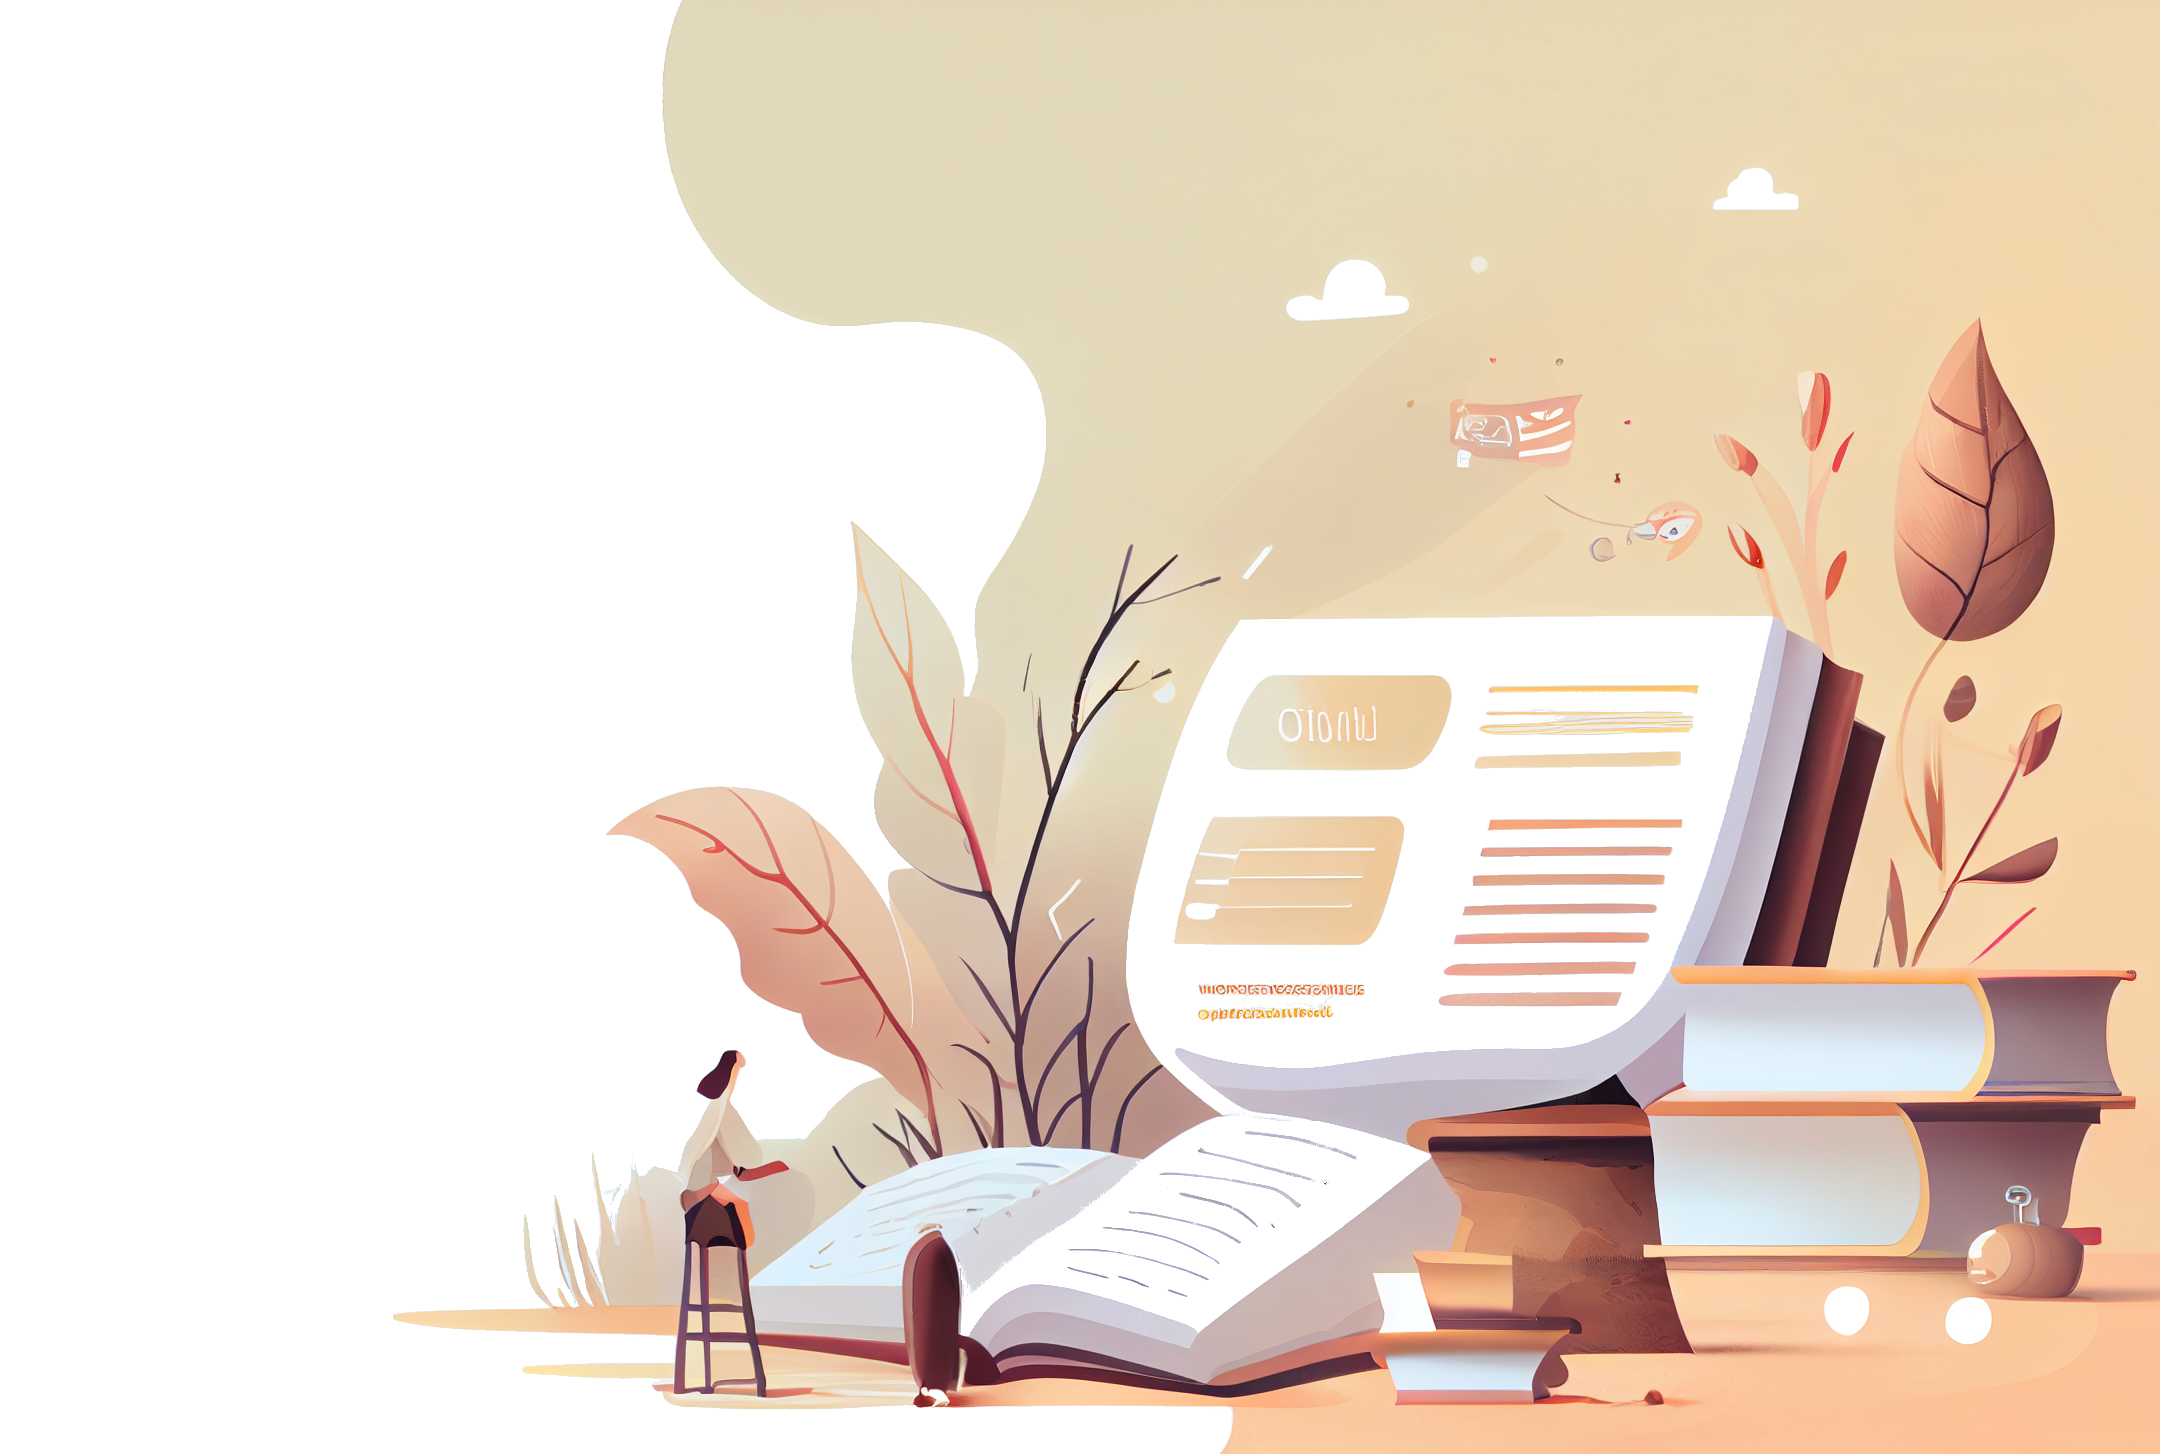
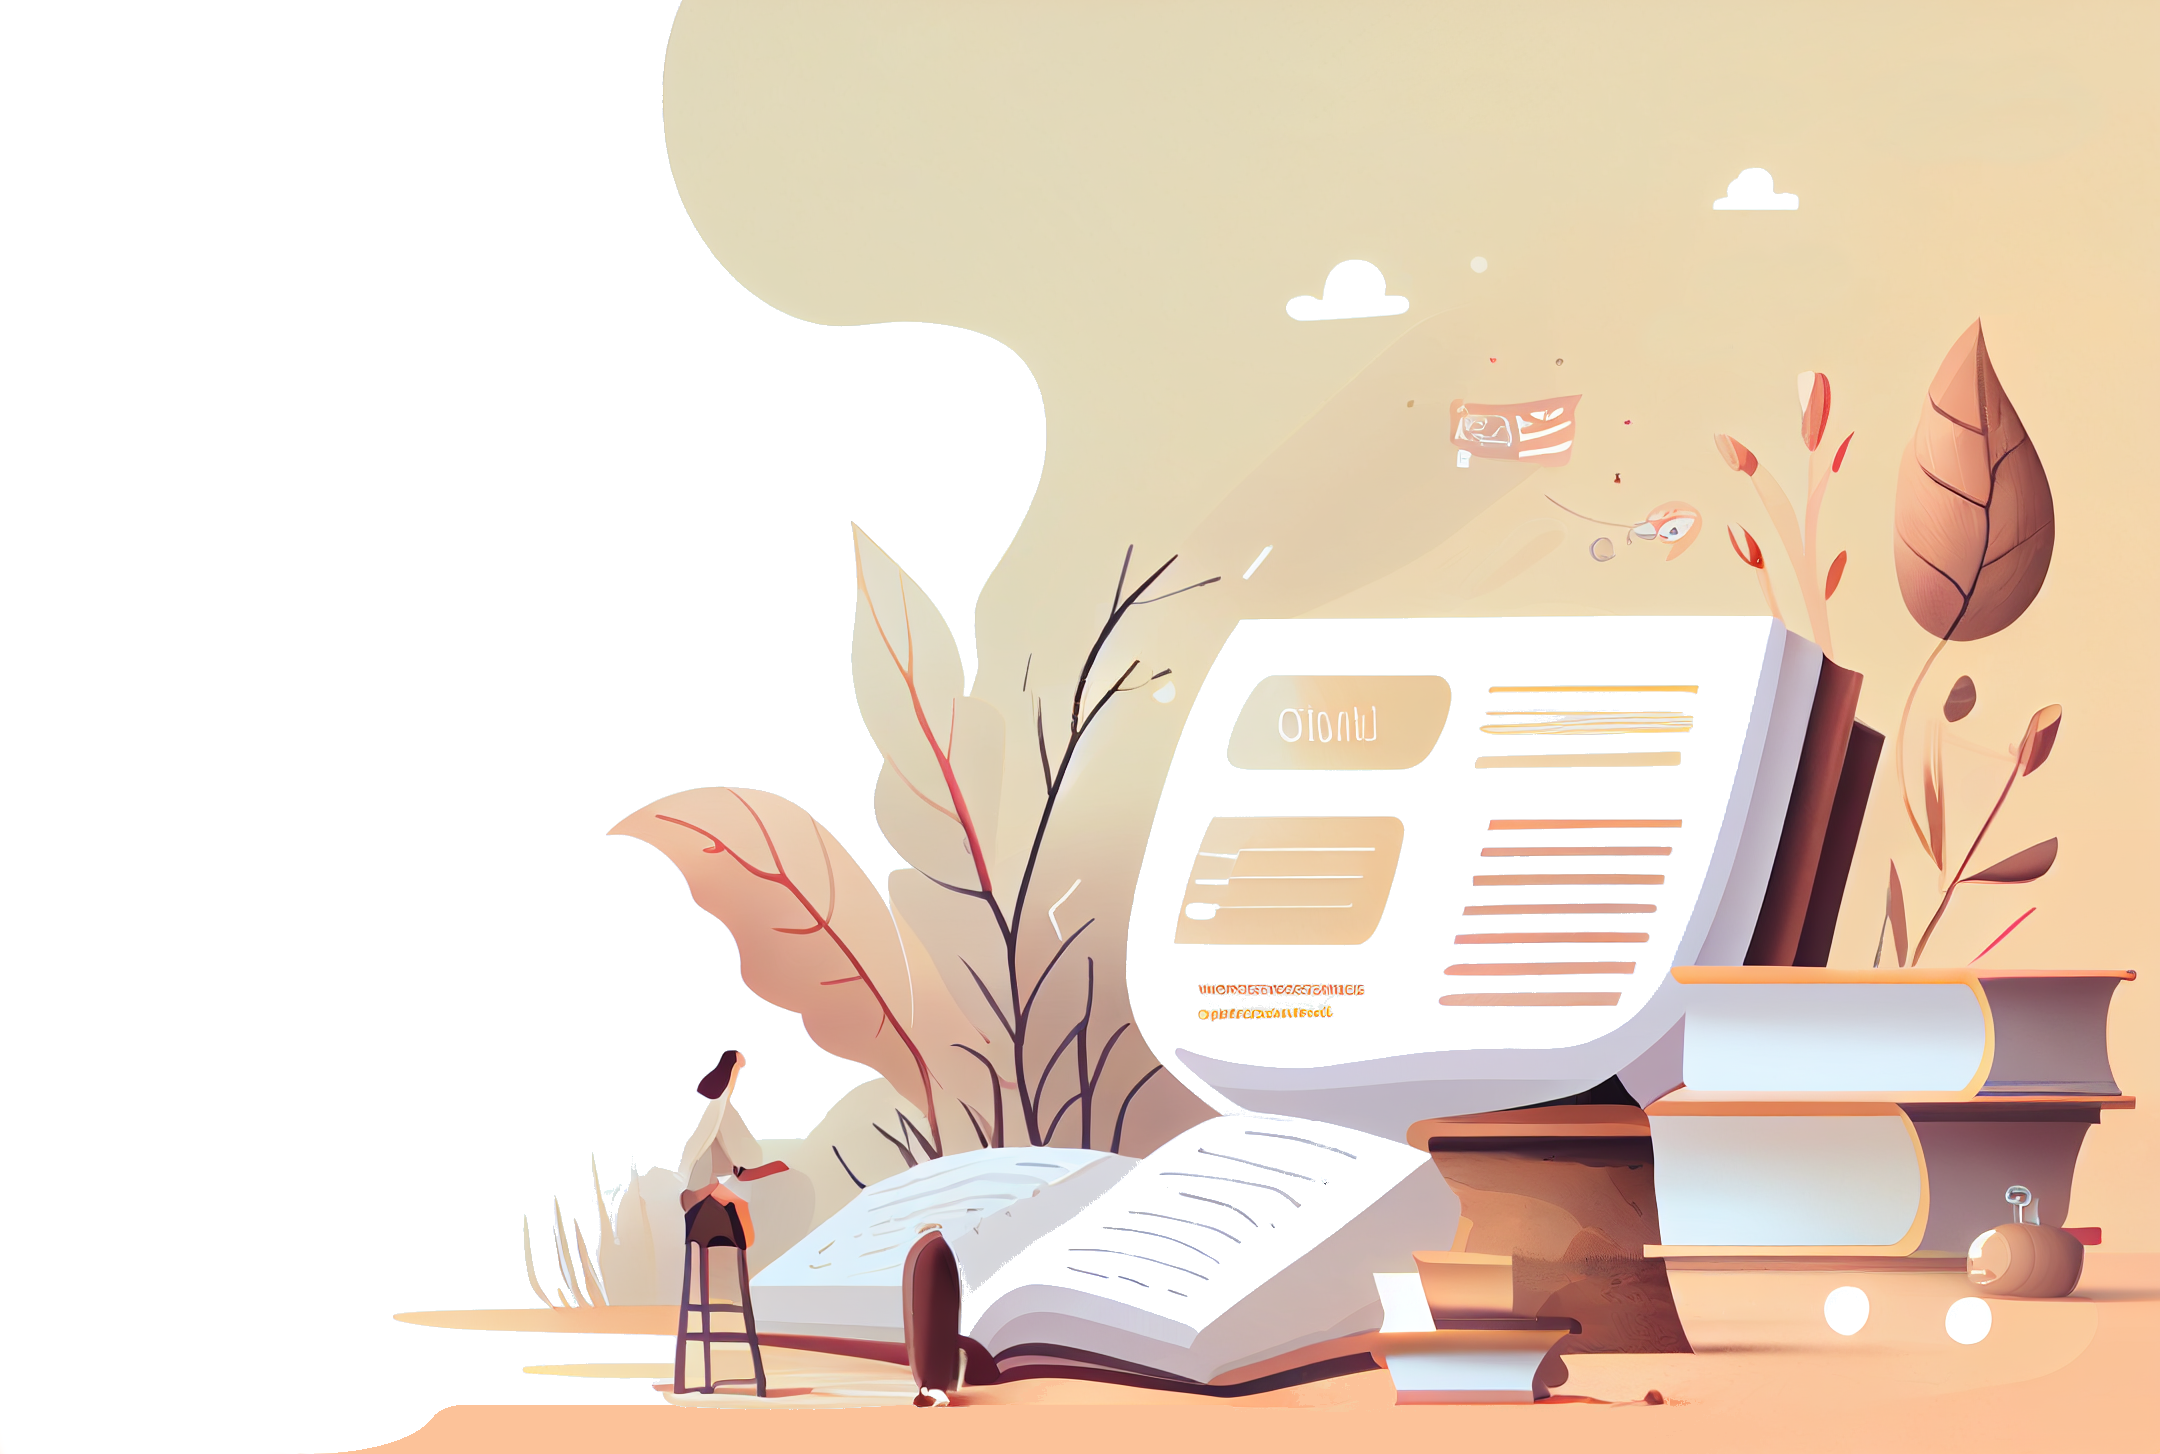
Working waves

Changed region(s): [[0.1551, 0.9594, 0.5894, 1.0]]

diff --git a/flutter_service_worker.js b/flutter_service_worker.js
@@ -4,17 +4,17 @@ const TEMP = 'flutter-temp-cache';
 const CACHE_NAME = 'flutter-app-cache';
 const RESOURCES = {
   "flutter.js": "a85fcf6324d3c4d3ae3be1ae4931e9c5",
-"index.html": "d6b47c890144e2952e9679b5a07d5f22",
-"/": "d6b47c890144e2952e9679b5a07d5f22",
+"index.html": "c7c737c56015b57ff85b7b3a3aa4140f",
+"/": "c7c737c56015b57ff85b7b3a3aa4140f",
 "icons/Icon-maskable-512.png": "301a7604d45b3e739efc881eb04896ea",
 "icons/Icon-192.png": "ac9a721a12bbc803b44f645561ecb1e1",
 "icons/Icon-maskable-192.png": "c457ef57daa1d16f64b27b786ec2ea3c",
 "icons/Icon-512.png": "96e752610906ba2a93c65f8abe1645f1",
 "app.html": "2b456f24f578dfd2fcb552a9b7c01408",
 "favicon.png": "5dcef449791fa27946b3d35ad8803796",
-"index.css": "e25d11619004ebd072ddb9e5a1f85bc2",
+"index.css": "d88c8ed83d70a8e0a948087a885b881a",
 ".git/HEAD": "4cf2d64e44205fe628ddd534e1151b58",
-".git/COMMIT_EDITMSG": "ba89174eac5268cbe65dd0e7a0260c37",
+".git/COMMIT_EDITMSG": "3ef00351a14d85419d800537c21de555",
 ".git/hooks/pre-rebase.sample": "56e45f2bcbc8226d2b4200f7c46371bf",
 ".git/hooks/pre-commit.sample": "e4db8c12ee125a8a085907b757359ef0",
 ".git/hooks/pre-push.sample": "3c5989301dd4b949dfa1f43738a22819",
@@ -32,6 +32,7 @@ const RESOURCES = {
 ".git/objects/9b/27534445ef303bd6f2058b5e627c52e3456e30": "07d38b293dcec26b6d87aa57010a91a8",
 ".git/objects/24/dc7fa4d3e61a950d014b160cf62b18ef7013f6": "141ab433709e4f1902d441653e13352e",
 ".git/objects/4b/ce11f832f26ee264d95b6790237601cf5a6088": "d9243641979aa81a886b057ab392745a",
+".git/objects/7e/766160e94b6872ce6c80ce02f66254b746597c": "ee9ded14e669ed52adcbd554b41c1135",
 ".git/objects/eb/9b4d76e525556d5d89141648c724331630325d": "37c0954235cbe27c4d93e74fe9a578ef",
 ".git/objects/a1/fe901dca7c4be1d42414e58f8e7013f850b667": "ba435c5c7a85acfdd37b7db5645563d1",
 ".git/objects/a1/3837a12450aceaa5c8e807c32e781831d67a8f": "bfe4910ea01eb3d69e9520c3b42a0adf",
@@ -70,9 +71,11 @@ const RESOURCES = {
 ".git/objects/b9/2a0d854da9a8f73216c4a0ef07a0f0a44e4373": "f62d1eb7f51165e2a6d2ef1921f976f3",
 ".git/objects/b9/ed4d869e1d00a0b45817b4bd08040c55d10753": "dc76abc1874280983d1cbc37a8d14a60",
 ".git/objects/b9/ac9ddb0e7f1d542c533f4390a0a279352e7007": "62e0f88b2ac80c94426ff6bbb0d3e4a2",
+".git/objects/bc/c3f447bd1a25a3f1f82e4cb1510492dd160947": "98aebcfa5ee57fa1acbf392ddfef162c",
 ".git/objects/bc/26d4264e56fefb950a0a0ea19b02c23b6a19f4": "e5945cf32afabd51bc2fde38d3285530",
 ".git/objects/9d/5bfb277d518f56e19ff3e668aca380aed3ff3b": "dde70059e8ac7c107c578c8a61ae608c",
 ".git/objects/84/168a89f04de21dc4adbadd14db47390a6079e4": "24572caf3bd258f8eefff74dd56325ed",
+".git/objects/84/cb43564ddf28c769140667f8b5aa53b5def971": "79a7a24d05d35e7103dd0ff107409aa6",
 ".git/objects/f9/46fcec9873c1623870fe7f031455ce55429e8e": "846582589245e8b0d390d2fc45dfbf42",
 ".git/objects/1a/8fd3da589c4836a84f0b7019a24196604147b1": "58f47983bc295f7bed8d784fa77bd62b",
 ".git/objects/b0/53fcf4e286130d3b2489812b7104ad4b8bf6bb": "d8f1084caee221f55f8e4ab5256ab3a9",
@@ -80,6 +83,7 @@ const RESOURCES = {
 ".git/objects/aa/f9775aa89c03137dbf48721cdc05191703de5e": "25802b31f0bee36b4e1a7a67835f99f0",
 ".git/objects/a6/8b6d3e823fee9e400dd28ce2a0f4838267a87a": "328107b3bd7aa0ab318a89cd43389f68",
 ".git/objects/73/a5ca9e6ea457a8e87e3e88047b9268f15bb75b": "437e873491b95548ba60fecc00fa7933",
+".git/objects/bd/5b4756d4474df1d5b0b808fefd557e997cf99c": "99557527436c1e7792da9531416acdb1",
 ".git/objects/85/26cd6873cae032f78a03de3af355ae44d25952": "46469e1809608412898a85e055e0c0f5",
 ".git/objects/ce/2f5dcd12bc7112800799eb6a06cfdf05ff964f": "9b736263b865c469831c13f83ee43eeb",
 ".git/objects/a8/6546bcc0c8f4cc2af07c9e1f91018690f4364e": "e558695cd9ba4785a46da2f4ca80f8dc",
@@ -89,6 +93,7 @@ const RESOURCES = {
 ".git/objects/58/ede68754a31f9d9646c638bd53b2bfc3b70646": "f241ae7f4a3fe74044c281943f5da493",
 ".git/objects/3b/e19a9d751cd58458ce46fe8b5923e7977d6828": "2ece4044308f094eae31013342ebd745",
 ".git/objects/d6/9c56691fbdb0b7efa65097c7cc1edac12a6d3e": "868ce37a3a78b0606713733248a2f579",
+".git/objects/d6/d1cc981a4a87e73a1408abd8b269979055e81a": "f3730830ead4adc9b5224916344d90d5",
 ".git/objects/d6/2f13cd6e404919a0ec4abd86c27f64e7b01fbe": "c888336c03f2d90b9ed960955afde6c5",
 ".git/objects/d6/2a86a425ddd8e4754d24169d307de8dec744b4": "dbfbf54d9a16208e4ccc79fe6ea6cb50",
 ".git/objects/41/5c059c8094b888b0159fdedfd4e3cb08a8028e": "86914685ccd40e82a7fe5b70459fb9f7",
@@ -101,6 +106,7 @@ const RESOURCES = {
 ".git/objects/30/083cee3d9f417e46ada60286f79b38a157d196": "ad3d7c5405eea9f4e79989b763458ffa",
 ".git/objects/28/198e1c3ed39ab5fd7a89d4ab8d13b0e6d584df": "94f0be693b4f0ed3cd15e9b3d12a0e71",
 ".git/objects/28/4d8dcb3b6d9f6359366a98bf6f24f91c10a4c6": "c8aa524445d76d9e51a95ffa0461312c",
+".git/objects/ee/77e9a45f7fe8f0ed54cfa0257c4e33fb3ed2ae": "fd16b1dee1418da4138b826fc85bb90e",
 ".git/objects/35/d8b8ee5613841a642a6dbabad811218564da3d": "d4ff6e6eb2440f8cb6c0328a05de07b8",
 ".git/objects/98/b95a7b55d2e42dd0dd2bdc5b494d5e7de8a196": "0064632b1889964aa3ac1a25af32c144",
 ".git/objects/e6/1e42ddbc2f7e92c6f7f9b1c2c69a7a015a16fa": "2c2171be73e2be026e9178136fbbd749",
@@ -119,6 +125,7 @@ const RESOURCES = {
 ".git/objects/66/853f0d81862481a20dcad298a226122edf02d4": "84fe0c96dd09b34cf37461b375943208",
 ".git/objects/66/21df32815c62ab96ca0b96931fc2202c2e6912": "e5167549c7c2b09ea066e88176f11b30",
 ".git/objects/1b/d810815ed1a9e74351cdac4411bc19e005d10f": "b489a644f17594eec551a43bdf41429b",
+".git/objects/1b/476437875067542194d9fe18a5e42162e61b0f": "dc7347ec68230abbb87b6135e3678a35",
 ".git/objects/e5/951dfb943474a56e611d9923405cd06c2dd28d": "c6fa51103d8db5478e1a43a661f6c68d",
 ".git/objects/8c/99266130a89547b4344f47e08aacad473b14e0": "41375232ceba14f47b99f9d83708cb79",
 ".git/objects/7f/8ea42b6250b351da4b68a41fdc0ed66abc3766": "7549c546dfcc391fa1a0d7db459c154e",
@@ -126,16 +133,17 @@ const RESOURCES = {
 ".git/objects/6a/562868741911ffc3a5345f3c094a71eb0d073d": "ad3237b80e6dc65be0e2000c6c0a445f",
 ".git/objects/55/919b0b32f21410d9755ffbe64aeb2d07650744": "ffb88073b04c5f9454f1e7f08edc733c",
 ".git/objects/55/b37da53880a3a3924afe1c852b31221058d1f0": "4230b5c18f6af30479a92139cb3c4181",
+".git/objects/a3/bdce738f6228ec24221ea64c7123510208f18f": "65cda3de42a6de5ecb60a3b185e06d6d",
 ".git/objects/2c/0ebfe052cc86f315afc2944f5584786ee8bc5c": "bf07a24a1725fe2afc553d4b27e8e218",
 ".git/objects/fb/5092afb7ddb4343465ed66a271c780e6fdb065": "3bc8c1b273c6c9ce0991d00c25e41a0d",
-".git/refs/heads/master": "7c54aaf3022b722459dea5abe738678f",
-".git/refs/remotes/origin/master": "7c54aaf3022b722459dea5abe738678f",
+".git/refs/heads/master": "0b2357c997e8e0141efb274ac4a7229f",
+".git/refs/remotes/origin/master": "0b2357c997e8e0141efb274ac4a7229f",
 ".git/info/exclude": "036208b4a1ab4a235d75c181e685e5a3",
 ".git/description": "a0a7c3fff21f2aea3cfa1d0316dd816c",
-".git/logs/HEAD": "cb3089b51a55fbe0304c484f7f8fac5c",
-".git/logs/refs/heads/master": "cb3089b51a55fbe0304c484f7f8fac5c",
-".git/logs/refs/remotes/origin/master": "ec1d3ec2dd47bc096ca7e5c472c4dd2c",
-".git/index": "f1b6724387da069da324c4d1600bf2dc",
+".git/logs/HEAD": "1a1b35d092fe7637b86591300492d092",
+".git/logs/refs/heads/master": "1a1b35d092fe7637b86591300492d092",
+".git/logs/refs/remotes/origin/master": "efa2c3f20a1d0be21f3def8e1593b60a",
+".git/index": "5011c4e48c588f05bf07838fbf83a739",
 "version.json": "c5ec7f96bcae2727091d84e3e9d5ee84",
 "canvaskit/profiling/canvaskit.js": "c21852696bc1cc82e8894d851c01921a",
 "canvaskit/profiling/canvaskit.wasm": "371bc4e204443b0d5e774d64a046eb99",
@@ -147,11 +155,11 @@ const RESOURCES = {
 "assets/background_portrait.webp": "74fd6b88d1fca761e0e1cc7cbaba1b9f",
 "assets/background_portrait.png": "909153ce13286633a3d070f8cd256342",
 "assets/FontManifest.json": "dc3d03800ccca4601324923c0b1d6d57",
-"assets/background.webp": "16931655723775203b28757524070cc0",
+"assets/background.webp": "212d2694b7d24a10036803465b2d42d9",
 "assets/portrait_template.png": "3fc4a7f3955082b41813aad4dd89387b",
 "assets/template.png": "6c8271dd55e629bb0c0c3910912f8985",
 "assets/packages/cupertino_icons/assets/CupertinoIcons.ttf": "6d342eb68f170c97609e9da345464e5e",
-"assets/background.png": "78bec78130cd9d9d83e3b9db8b7b4e42",
+"assets/background.png": "a9159dbf9781c71d817afeada7a17c8a",
 "assets/AssetManifest.json": "2efbb41d7877d10aac9d091f58ccd7b9",
 "main.dart.js": "d434993cc2db3303afdacbf68e17cf74",
 "manifest.json": "d89c47cbdaea48190eaa31c233523559"

diff --git a/index.css b/index.css
@@ -1,10 +1,11 @@
 body {
     margin: 0;
+    background-color: #f5f5f5;
+    overflow-x: hidden;
   }
 
 @media (orientation: portrait) {
     .cover {
-        background-color: #f5f5f5;
         background-image: url('./assets/background_portrait.webp');
         background-size: auto 80%;
         background-repeat: no-repeat;
@@ -12,17 +13,26 @@ body {
         height: 100vh;
         width: 100vw;
     }
+
+    .cute-button {
+        width: 50%;
+        margin-left: 20%;
+    }
 }
 
 @media (orientation: landscape) {
     .cover {
-        background-color: #f5f5f5;
         background-image: url('./assets/background.webp');
         background-size: auto 100%;
         background-repeat: no-repeat;
         background-position: right bottom;
         height: 100vh;
         width: 100vw;
+    }
+
+    .cute-button {
+        width: 30%;
+        margin-left: 30%;
     }
 }
 
@@ -62,19 +72,19 @@ body {
   
 .title {
     margin-left: 10%;
-    font-size: 3em;
+    font-size: 3rem;
     color: #492c38;
 }
 
 .subtitle {
     font-size: 16px;
-    font-size: 1.8em;
+    font-size: 1.8rem;
     font-weight: normal;
     margin-left: 10%;
   }
   
 .cute-button {
-    background-color: #eacc96;
+    background-color: #fcc299;
     border: none;
     border-radius: 20px; /* rounded corners */
     color: white;
@@ -85,11 +95,98 @@ body {
     font-size: 16px;
     cursor: pointer;
     transition: background-color 0.3s ease; /* transition effect */
-    width: 30%;
-    margin-left: 30%;
     margin-top: 10%;
 }
 
 .cute-button:hover {
     background-color: #d79e88;
+}
+
+
+svg path {
+    fill: #fcc299;
+}
+
+svg rect {
+    fill: #f5f5f5;
+}
+
+@media (orientation: landscape) {
+  svg .path-mobile {
+    width: 0;
+    display: none
+  }
+  
+  svg .rect-mobile {
+    width: 0;
+    display: none
+  }
+
+  .wave-mobile {
+    width: 0;
+    display: none
+}
+}
+
+@media (orientation: portrait) {
+    svg .path-mobile {
+      fill: #f5f5f5;
+      height: 100%;
+    }
+    
+    svg .rect-mobile {
+      fill: #fcc299;
+      margin-bottom: 0;
+    }
+
+    .wave-mobile-svg {
+        margin-bottom: 0;
+      }
+
+    .wave-mobile {
+        --divider-height: 4rem;
+    
+        position: relative;
+        top: calc( var(--divider-height)/2 * -0.7 );
+    
+        height: var(--divider-height);
+        width: 100vw;
+    
+        float: left; 
+        z-index: 1;
+    
+        margin-bottom: 0;
+    }
+  }
+
+.wave {
+    --divider-height: 4rem;
+
+    position: relative;
+    top: calc( var(--divider-height)/2 * -2 );
+
+    height: var(--divider-height);
+    width: 100vw;
+
+    float: left; 
+    z-index: 1;
+
+    margin-bottom: 0;
+}
+
+.Subjects {
+    background-color: #fcc299;
+    height: 100vh;
+    width: 100vw;
+    display: flex;
+    flex-direction: column;
+    align-items: center;
+    margin-top: 0;
+    /* justify-content: center; */
+}
+
+.subjects-title {
+    font-size: 2rem;
+    color: #492c38;
+    margin-top: 10%;
 }

diff --git a/index.html b/index.html
@@ -25,6 +25,8 @@
   <meta name="apple-mobile-web-app-status-bar-style" content="black">
   <meta name="apple-mobile-web-app-title" content="magistro">
   <link rel="apple-touch-icon" href="icons/Icon-192.png">
+
+  <meta name="viewport" content="width=device-width, initial-scale=1.0">
   <link rel="stylesheet" type="text/css" href="./index.css">
 
   <!-- Favicon -->
@@ -48,8 +50,29 @@
         </a>
       </div>
     </div>
-    
   </div>
+
+  <div class="wave-mobile">
+    <svg class="wave-mobile-svg" viewBox="0 70 500 60" preserveAspectRatio="none">
+      <rect class="rect-mobile" x="0" y="0" width="500" height="500" style="stroke: none;" />
+      <path class="path-mobile" d="M0,100 C150,200 350,0 500,100 L500,00 L0,0 Z" style="stroke: none;"></path>
+    </svg>
+  </div>
+
+  <div class="Subjects">
+    <div class="subjects-container">
+      <h2 class="subjects-title">Subjects</h2>
+      <p class="subjects-text">We are on a mission to revolutionize the way we learn things. Improve your math with us.</p>
+    </div>
+  </div>
+
+  <div class="wave">
+    <svg viewBox="0 70 500 60" preserveAspectRatio="none">
+      <rect x="0" y="0" width="500" height="500" style="stroke: none;" />
+      <path d="M0,100 C150,200 350,0 500,100 L500,00 L0,0 Z" style="stroke: none;"></path>
+    </svg>
+  </div>
+
   <!-- <div class="footer">
     <p>© 2020 Magistro</p>
   </div> -->
